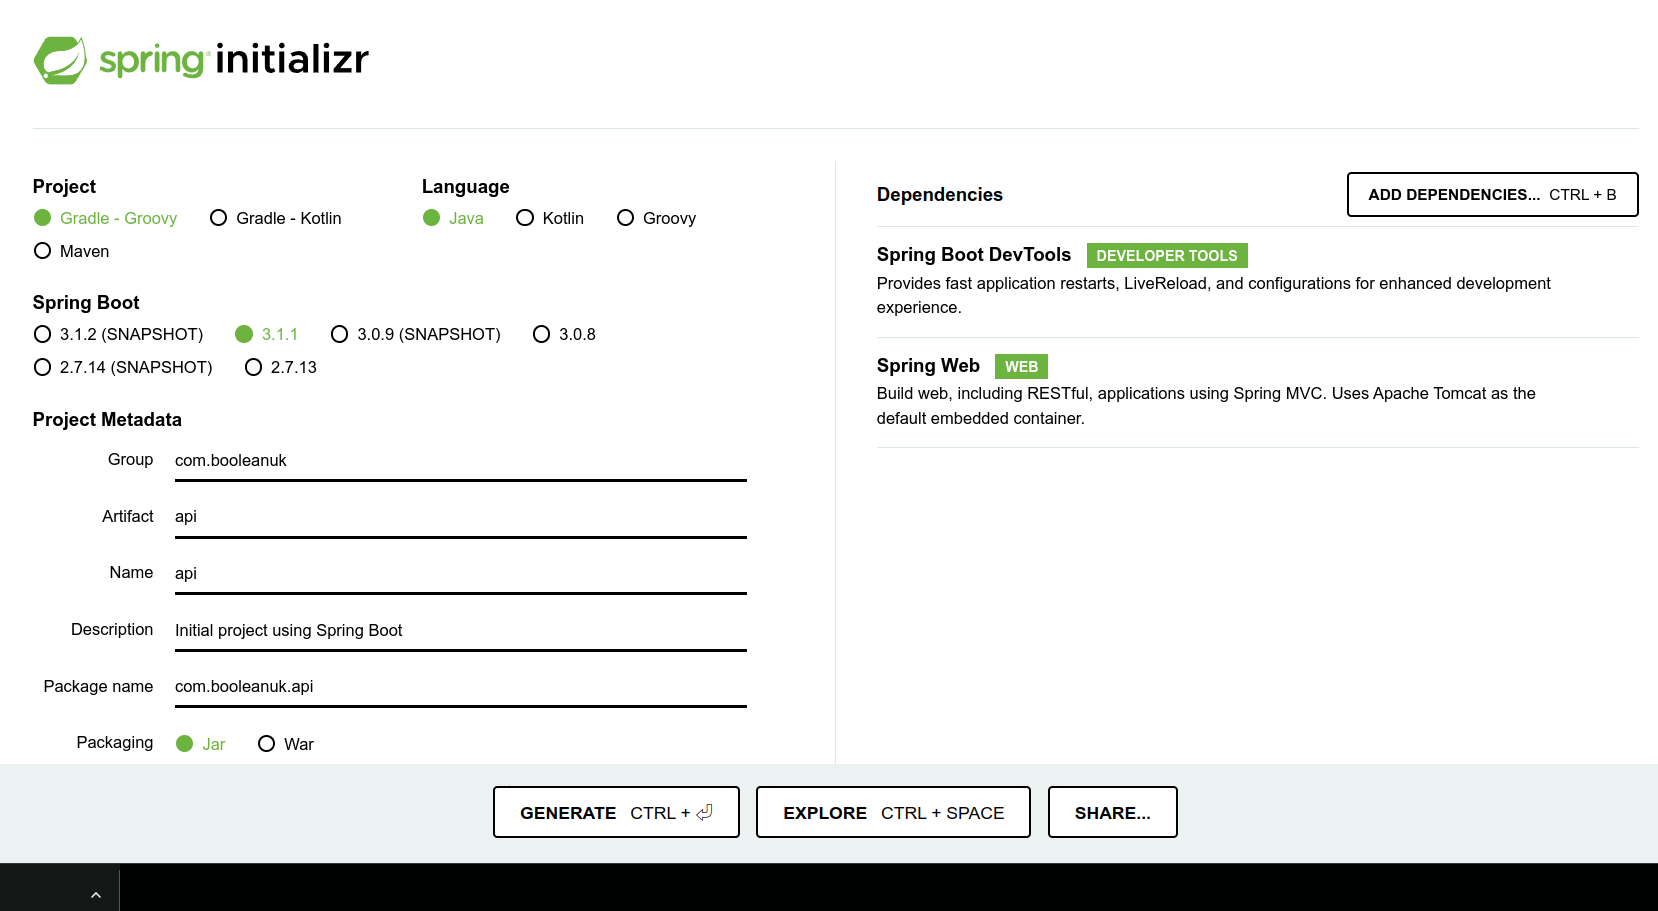
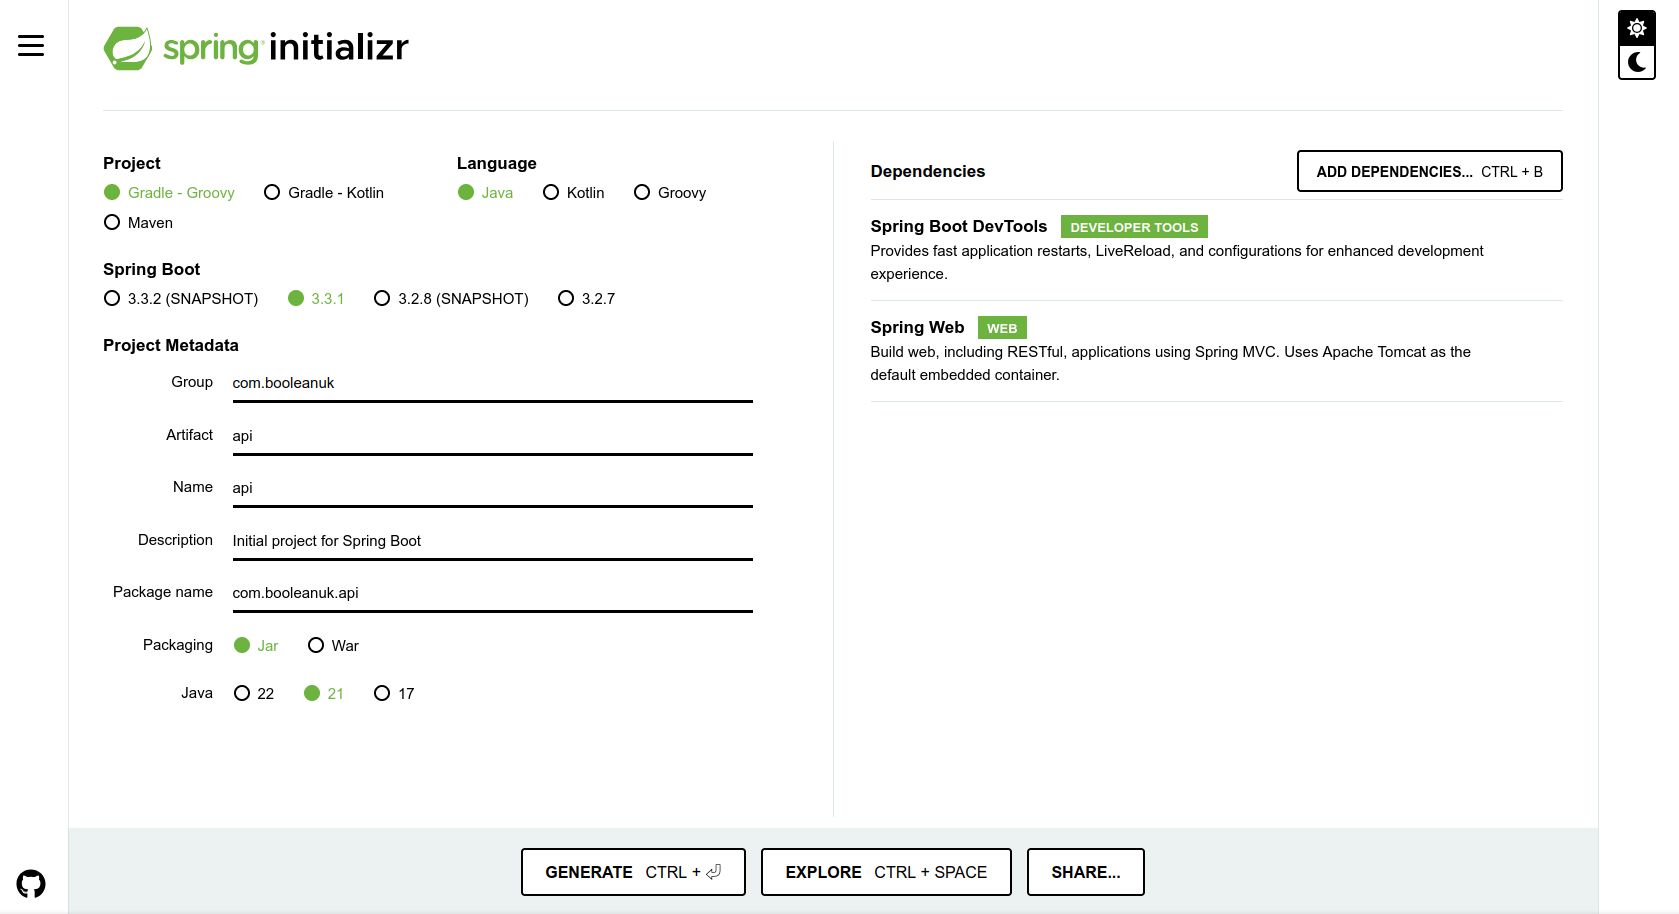
Updated the Spring Initialiser and tweaked the lesson content slightly.

diff --git a/README.md b/README.md
@@ -189,7 +189,7 @@ class JokeMachineControllerTest {
 
 ## Exercise
 
-In your pair, find some other jokes, change the code so that you have multiple jokes stored and then when you access the endpoint, a random joke is chosen and that is the one which is returned to the browser. Paste your code into the #code-examples channel.
+In your pairs, find some other jokes, change the code so that you have multiple jokes stored and then when you access the endpoint, a random joke is chosen and that is the one which is returned to the browser. Paste your code into the #code-examples channel.
 
 Extension: How can you test code which has an element of randomness?
 
@@ -415,9 +415,8 @@ Add a new class and routes to serve up Knock-knock jokes - I'm not sure if these
 
 Core: You should have a number of knock-knock jokes available that will be selected by supplying the specific index, this should display the first line of the joke, you would then get the next line by adding `/line2` which would display lines 1 and 2, then add `/line3` to the end to display the first 3 lines and so on until you get to the end of the joke. Write tests for these too.
 
-Extension 1: Can you make it so that you can get the knock-knock jokes to display line by line for a randomly chosen joke? How might you test this?
+Extension: Can you make it so that you can get the knock-knock jokes to display line by line for a randomly chosen joke? How might you test this?
 
-Extension 2: Use the Spring Boot documentation/Internet searches to investigate returning error codes and your own message if the user visits a non-existent endpoint.
 
 
 
